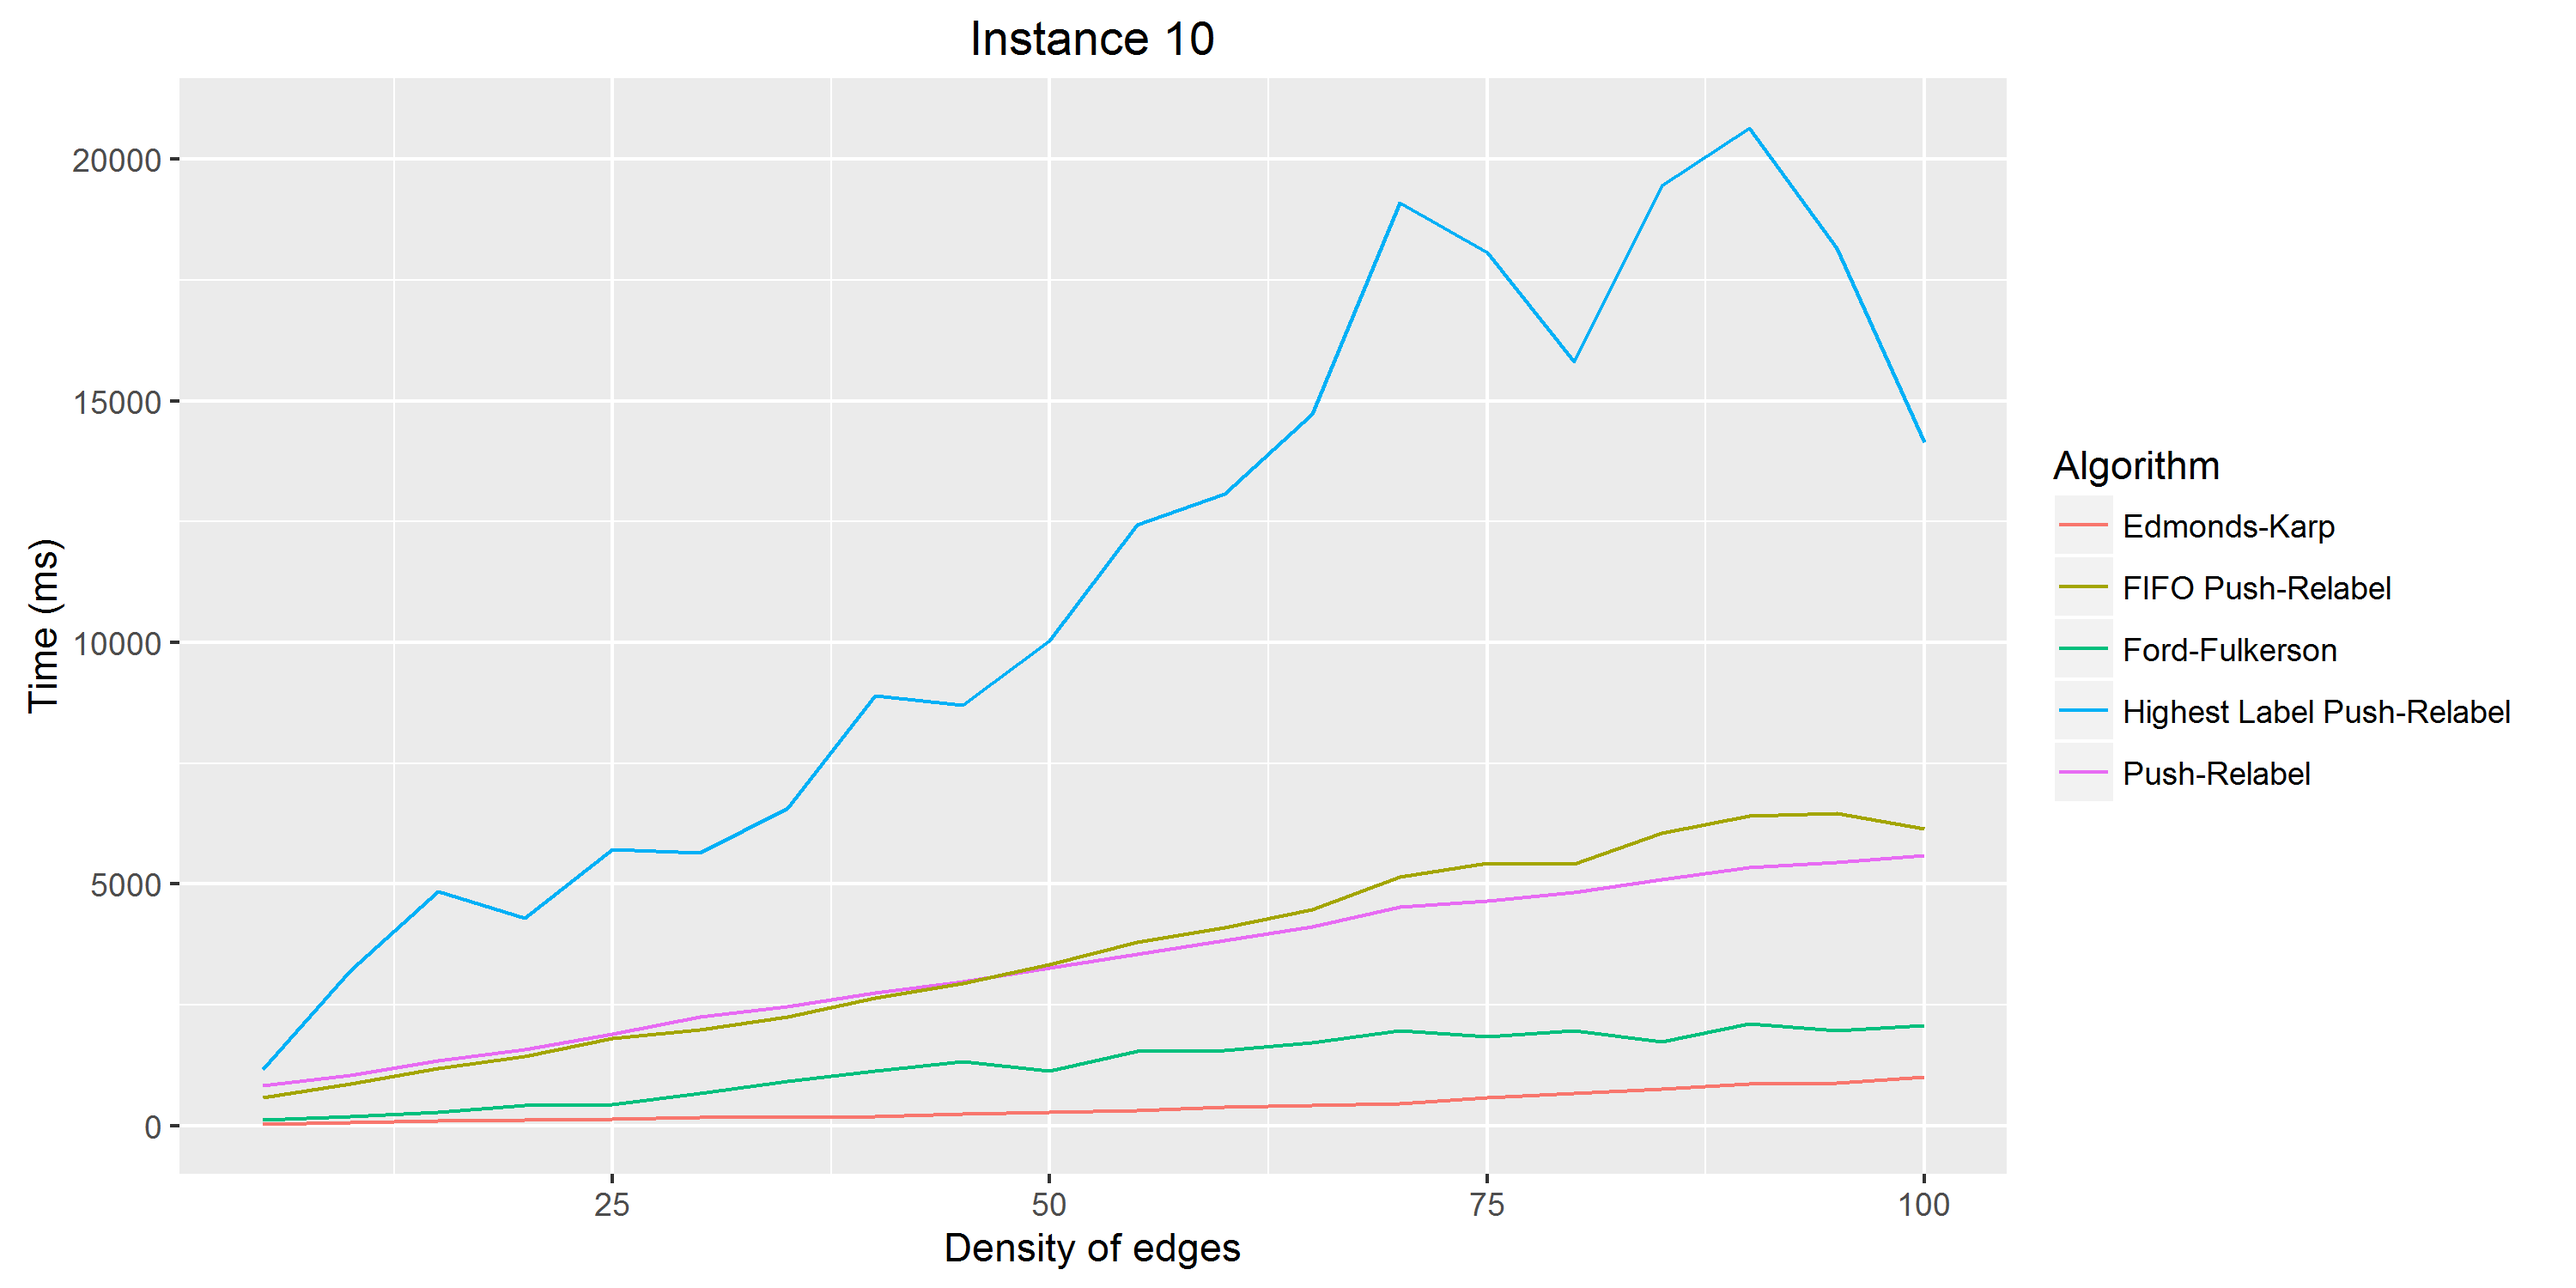
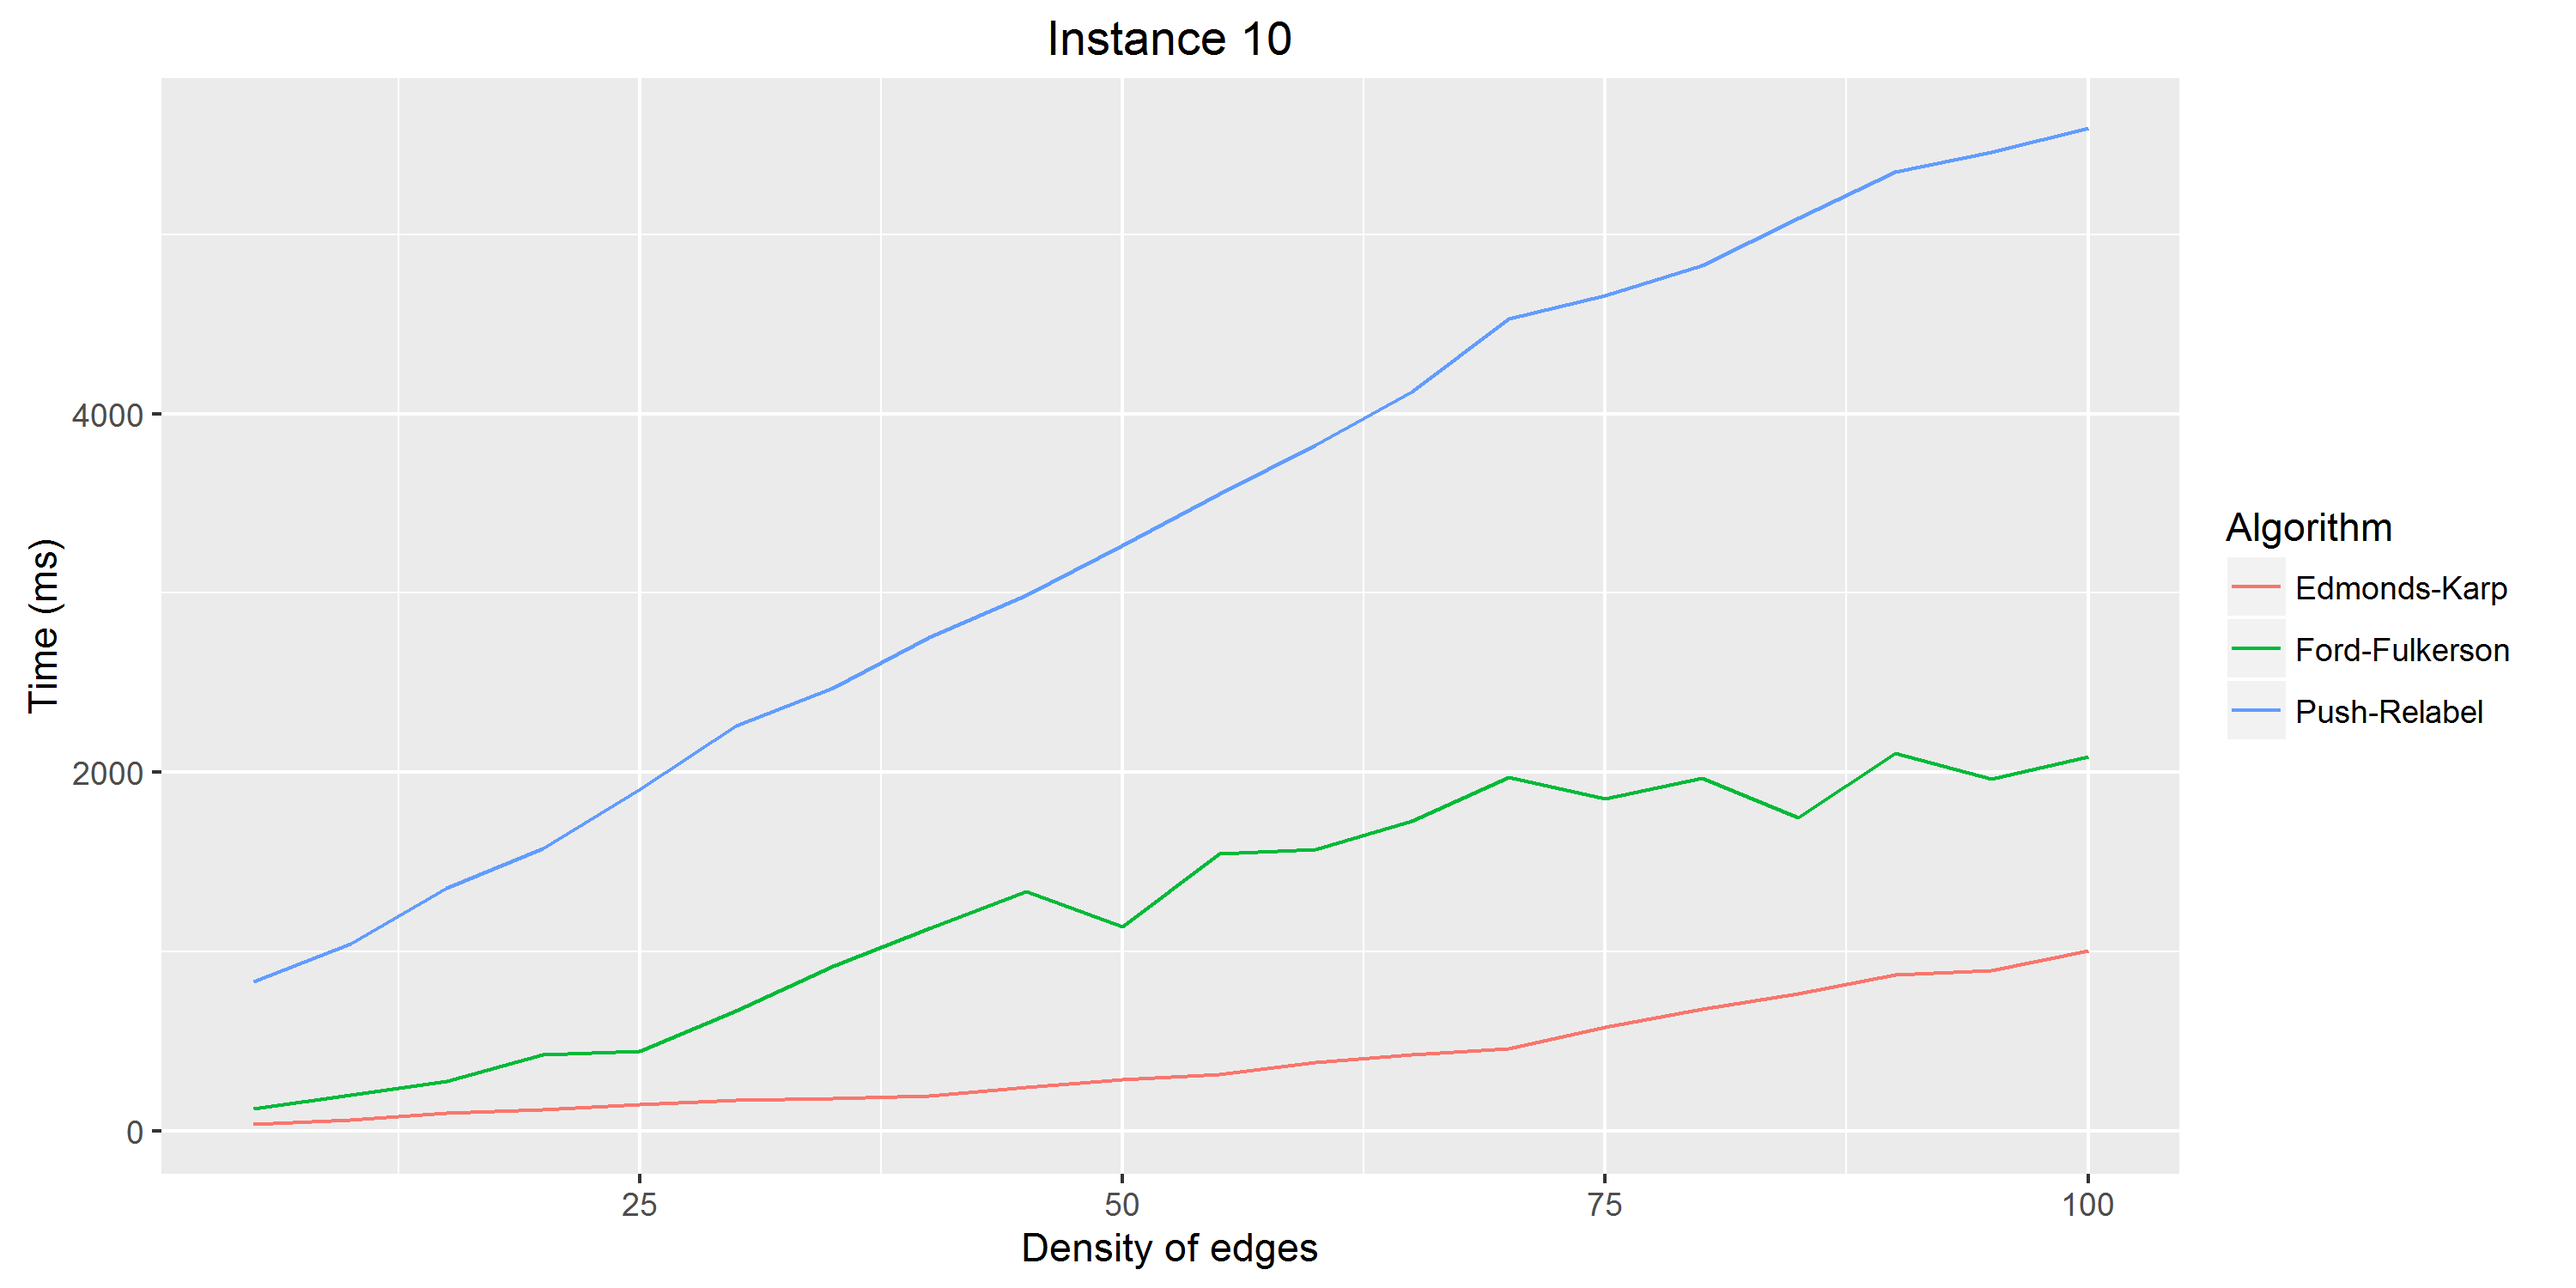
density variation instances : done

diff --git a/latex/sections/analysis.tex b/latex/sections/analysis.tex
@@ -20,28 +20,41 @@ We generate a network graph with $|V|=1000$ and an edge density of 10\%. We add 
 For our tests, we generate 10 instances of each type.
 
 \section{Best Push-Relabel heuristics}
-Blablabla HLPR vs FPR vs PR
-HLPR gagne?
+We have 3 variants of the Push-Relabel algorithm with different complexities so we compare their run time to select the one with the best performance. We did the comparison for our 2 type of instances.
+
+\subsection{Density variation instances}
+The Figure~\ref{fig:PRs} represents the average run time of the 3 variants of Push-Relabel on all instances. As we can see, the generic Push-Relabel offers the best results.
+
+%TODO on essaye d'expliquer pourquoi ou tout ce qui est explication, on le fait dans la partie analyse?
+
+\begin{figure}[H]
+\includegraphics[scale=0.65]{images/meanPRs.png}
+\caption{Average run time on all instances for three variants of Push-Relabel.}
+\label{fig:PRs}
+\end{figure}
+
+\subsection{Size variation instances}
+Pas encore fait mais suspense, qui va gagner? HLPR, FPR ou le redoutable PR?
 
 \section{Results}
 To obtain the run time of an algorithm with a defined data structure on a specific instance, we make the average of 10 execution. To be certain of the accuracy of our results, we execute 5 times the same tests in order to study the variance of the run time. The run time varied, on average, by 1\%. We therefore consider that our results are relevant.
 
-\subsection{Density variation}
-We tested on the 10 density variation instances, Edmonds-Karp, Ford-Fulkerson with scaling and Highest Label Push-Relabel with our 5 data structures. The entire results can be found in the appendix but here is the most interesting ones.
+\subsection{Density variation instances}
+We tested on the 10 density variation instances, Edmonds-Karp, Ford-Fulkerson with scaling and Push-Relabel with our 5 data structures. The entire results can be found in the appendix but here is the most interesting ones.
 
 \subsubsection{Edmonds-Karp}
 The Figure~\ref{fig:EK1} represents the run time of Edmonds-Karp with all data structures on the instance 1. As we can see, the data structures based on the sparse set are better than the other one. The hash map and tree map are the least efficient. These observations are the same for all instances. We can conclude that the most appropriate data structure for Edmonds-Karp is the Split Array.
 
 \begin{figure}[H]
-\includegraphics[scale=0.65]{images/EK1.png}
+\includegraphics[scale=0.63]{images/EK1.png}
 \caption{Run time of Edmonds-Karp on the instance 1.}
 \label{fig:EK1}
 \end{figure}
 
-One of the most blatant observations on Edmonds-Karp is that it is very regular, what we can observe in the Figure~\ref{fig:EKmean}, which represents the run time on each instance, with its best data structure, the Split Array.
+One of the most blatant observations on Edmonds-Karp is that it is very regular, what we can observe in the Figure~\ref{fig:EKmean}, which represents the run time on each instance, with its best data structure, the Split Array. Indeed, Edmonds-Karp solve the maximum flow problem on complete graphs with $|V|=1000$ with a run time ranging from 750 to 1000 ms.
 
 \begin{figure}[H]
-\includegraphics[scale=0.65]{images/EKmean.png}
+\includegraphics[scale=0.63]{images/EKmean.png}
 \caption{Run time of Edmonds-Karp on all instances.}
 \label{fig:EKmean}
 \end{figure}
@@ -63,22 +76,56 @@ The Figure~\ref{fig:FFmean} represents the run time on each instance, with the S
 \begin{figure}[H]
 \includegraphics[scale=0.65]{images/FFmean.png}
 \caption{Run time of Ford-Fulkerson scaling on all instances.}
-\label{fig:EKmean}
+\label{fig:FFmean}
 \end{figure}
 
-\subsubsection{Highest Label Push-Relabel}
+\subsubsection{Push-Relabel}
+When we look at the results of the Push-Relabel, an observation is quite obvious : it is not regular at all. As shown in Figure~\ref{fig:PR6} and Figure~\ref{fig:PR8}, the run time on one instance can vary from less than 100 ms to more than 15000 ms.
+
+\begin{figure}[H]
+\includegraphics[scale=0.63]{images/PR6.png}
+\caption{Run time of Push-Relabel on the instance 6.}
+\label{fig:PR6}
+\end{figure}
+\begin{figure}[H]
+\includegraphics[scale=0.63]{images/PR8.png}
+\caption{Run time of Push-Relabel on the instance 8.}
+\label{fig:PR8}
+\end{figure}
+
+It may nevertheless have a stable run time but once very high and once extremely low. That is what we can observe in Figure~\ref{fig:PR10} and Figure~\ref{fig:PR7}.
+
+\begin{figure}[H]
+\includegraphics[scale=0.63]{images/PR10.png}
+\caption{Run time of Push-Relabel on the instance 10.}
+\label{fig:PR10}
+\end{figure}
+\begin{figure}[H]
+\includegraphics[scale=0.63]{images/PR7.png}
+\caption{Run time of Push-Relabel on the instance 7.}
+\label{fig:PR7}
+\end{figure}
+
+In terms of data structures, we notice that the HashMap and the TreeMap offer very poor performances compared to data structures based on the SparseSet. The most adapted data structure being the Split Array.
+
+\begin{figure}[H]
+\includegraphics[scale=0.63]{images/PRmean.png}
+\caption{Run time of Push-Relabel on all instances.}
+\label{fig:PRmean}
+\end{figure}
+
+When displaying the run time of each instance with its best data structure, we obtain a very disparate graph, as we can see in Figure~\ref{fig:PRmean}. Indeed, the Push-Relabel solve the maximum flow problem on complete graphs with $|V|=1000$ with a run time ranging from 100 ms to 5500 ms.
 
 \subsubsection{Comparison}
+The Figure~\ref{fig:MeanInstances} represents, for each algorithm, the average run time on all instances with its best data structure. The performances are close but Edmonds-Karp with the Split Array is the most appropriate algorithm to solve the maximum flow problem with graphs having a high-density of edges.
 
+\begin{figure}[H]
+\includegraphics[scale=0.65]{images/MeanInstances.png}
+\caption{Average run time of the three algorithms on all instances.}
+\label{fig:MeanInstances}
+\end{figure}
 
-
-
-
-
-
-
-
-\subsection{Size variation}
+\subsection{Size variation instances}
 Graphes + grosse grosse explication
 
 \section{Analysis}

diff --git a/pyhton/computeTime.py b/pyhton/computeTime.py
@@ -3,44 +3,16 @@ import os
 
 var = input("Are you sure you want to reset the results? ")
 if(var=="yes"):
-	for x in range(4,10):
+	for x in range(1,11):
 		print('Tests for '+str(x)+' launch')
 		od = os.getcwd()
 		os.chdir(od+'\..\\java\\results')
-		results = open('resultsOrientedHLPR'+str(x)+'.txt', 'w')	
+		results = open('resultsOrientedPR'+str(x)+'.txt', 'w')	
 		os.chdir(od+'\..\\java\\bin')
 
 		instances = ["05","10","15","20","25","30","35","40","45","50","55","60","65","70","75","80","85","90","95","100"]
-		solvers = ["HLPR"]#["FF","EK","PR","FPR"]
-		graphs = ["LL","HM","SA","TM","SM"]
-		for solver in solvers:
-			print('-----'+solver+'-----')
-			for graph in graphs:
-				print('---'+graph+'---')
-				for instance in instances:
-					print('--'+instance+'--')
-					i=0
-					b=0
-					while i<10:
-						b+=int(os.popen('java -cp . flowAlgorithm.BatchMain '+solver+' '+graph+' ..\instances\instancesUniquePrct'+str(x)+'\instanceuniqueprct'+instance+'.txt '+'true').read())
-						i+=1
-					b/=10
-					results.write(solver+' '+graph+' '+instance+' '+str(b)+'\n')
-
-		print('Tests for '+str(x)+' done')
-		results.close()
-		os.chdir(od)
-		
-	for x in range(10,11):
-		print('Tests for '+str(x)+' launch')
-		od = os.getcwd()
-		os.chdir(od+'\..\\java\\results')
-		results = open('resultsOriented'+str(x)+'.txt', 'w')	
-		os.chdir(od+'\..\\java\\bin')
-
-		instances = ["05","10","15","20","25","30","35","40","45","50","55","60","65","70","75","80","85","90","95","100"]
-		solvers = ["FF","EK","PR","FPR","HLPR"]
-		graphs = ["LL","HM","SA","TM","SM"]
+		solvers = ["HLPR","PR","FPR"]#["FF","EK","PR","FPR"]
+		graphs = ["SM"]#["LL","HM","SA","TM","SM"]
 		for solver in solvers:
 			print('-----'+solver+'-----')
 			for graph in graphs:

diff --git a/java/src/results/ResultsConverter.java b/java/src/results/ResultsConverter.java
@@ -257,9 +257,9 @@ public class ResultsConverter {
 	}
 
 	public static void main(String [] args){
-		/*getResultsBySolver();
+		getResultsBySolver();
 		getResultsByInstance();
-		getMeanResultsByInstance();*/
+		getMeanResultsByInstance();
 		getAllResultsBySolver();
 	}
 }
